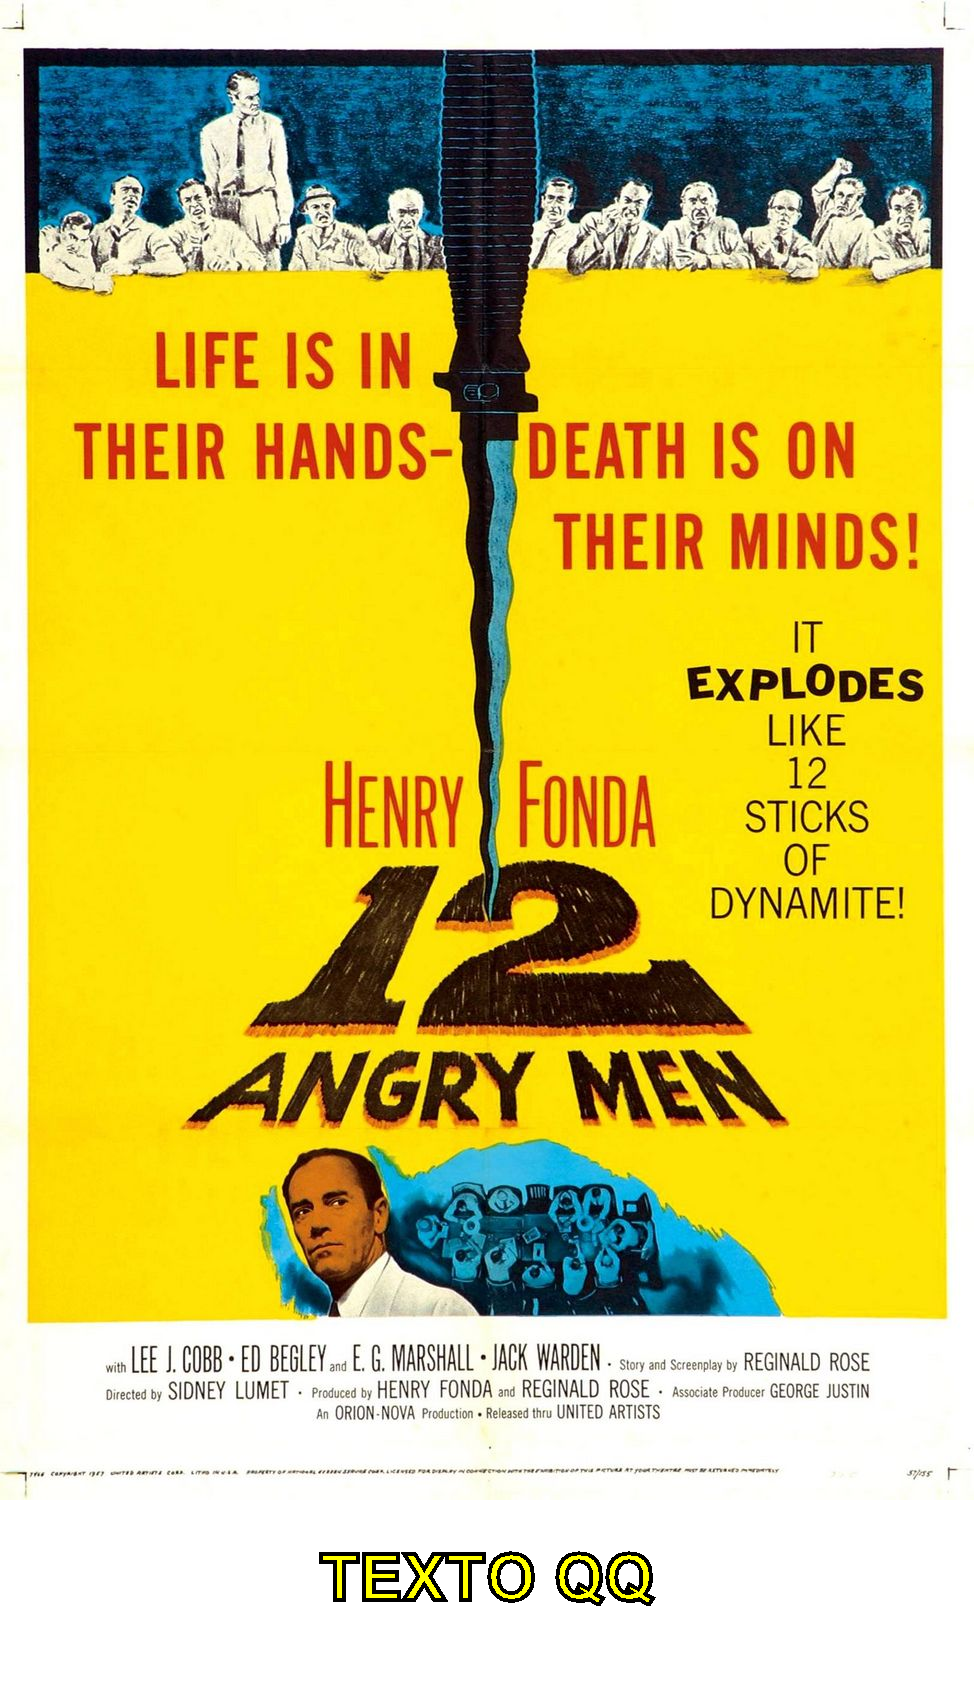
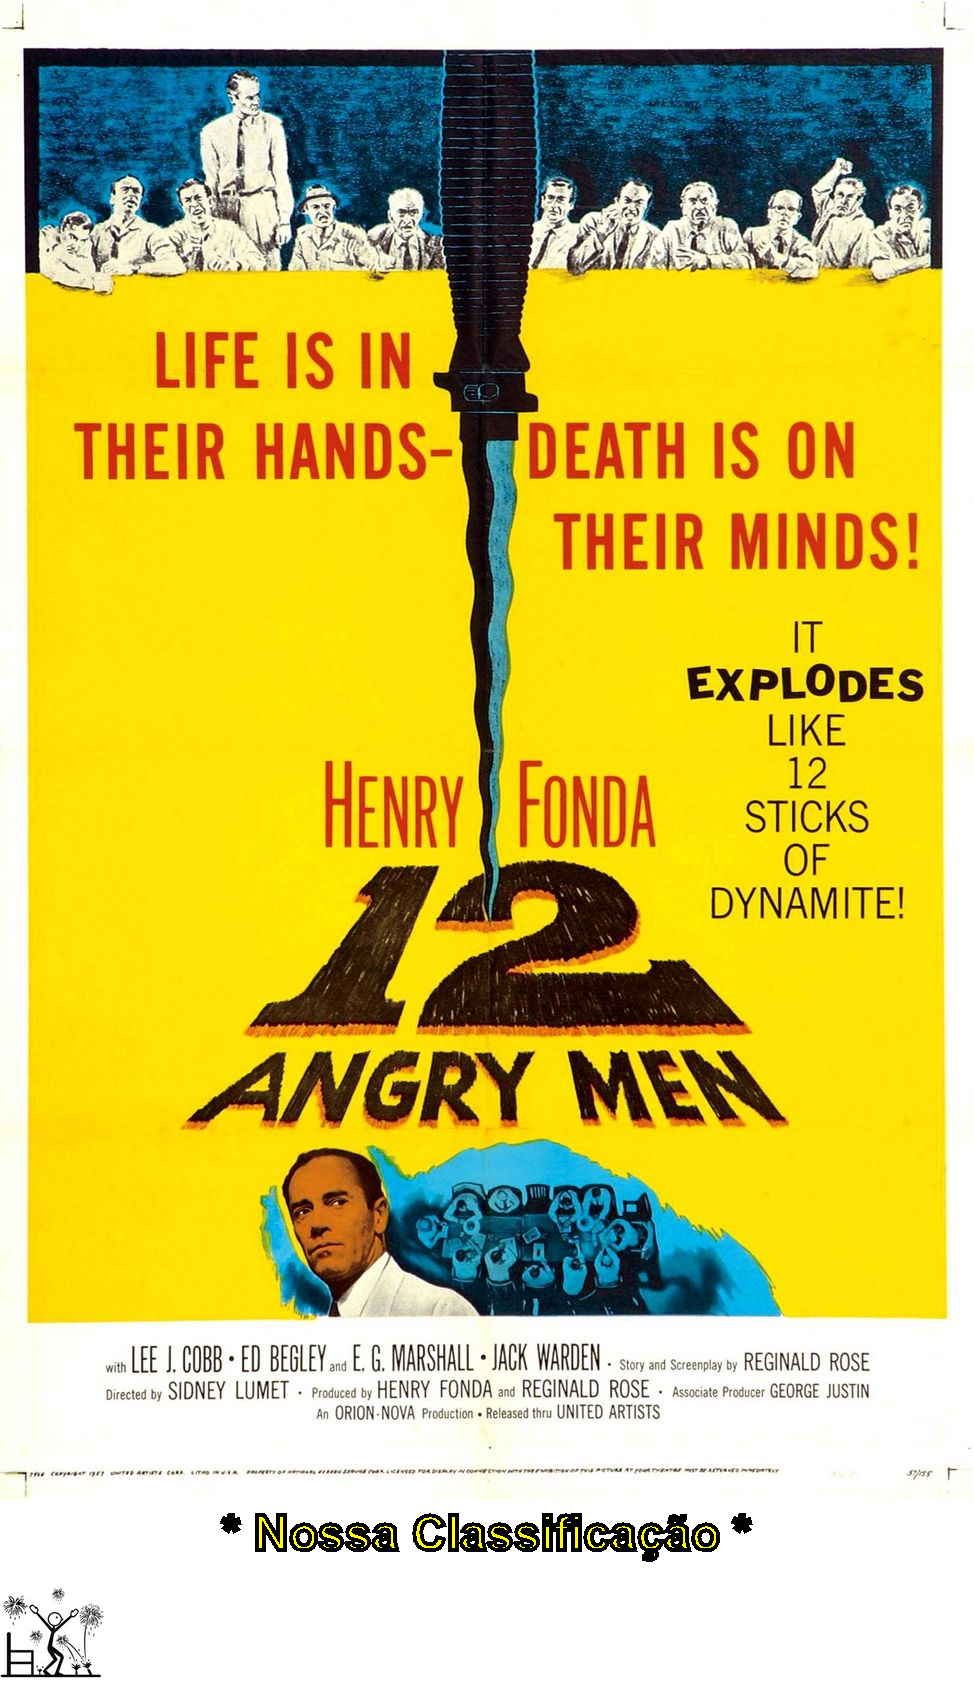
update stickers factory

Changed region(s): [[0.2156, 0.8729, 0.77, 0.9665], [0.0, 0.9353, 0.1232, 0.9976]]

diff --git a/alura-stickers/src/FactoryStickers.java b/alura-stickers/src/FactoryStickers.java
@@ -6,13 +6,14 @@ import java.awt.geom.AffineTransform;
 import java.awt.geom.Rectangle2D;
 import java.awt.image.BufferedImage;
 import java.io.File;
+import java.io.FileInputStream;
 import java.io.InputStream;
 
 public class FactoryStickers {
 
-    public void createSticker(InputStream inputStream, String nomeArquivo) throws Exception {
+    public void createSticker(InputStream inputStream, String nomeArquivo, double nota) throws Exception {
 
-        //leitura  da imagem
+        //leitura  da imagem do poster
         //InputStream inputStream = new FileInputStream(new File("img/filme_01.jpg"));
         //InputStream inputStream = new URL("https://raw.githubusercontent.com/alura-cursos/imersao-java-2-api/main/TopMovies_1.jpg").openStream();
         BufferedImage imgOriginal = ImageIO.read(inputStream);
@@ -23,22 +24,40 @@ public class FactoryStickers {
         int novaAltura = altura + 200;
         BufferedImage imgModificada = new BufferedImage(largura, novaAltura, BufferedImage.TRANSLUCENT);
 
-        //copiar a imagem original para a nova imagem (em memória)
+        //classificação do filme
+        String imgNota = "";
+        if(nota > 9.0) {
+            imgNota = "img/boneco-nota-10.jpg";
+        }else if ((nota <= 9.0) && (nota > 8.5)) {
+            imgNota = "img/boneco-nota-9.jpg";
+        }else {
+            imgNota = "img/boneco-nota-8.jpg";
+        }
+
+        //configurar imagem de classificação
+        InputStream inputClassificacao = new FileInputStream(new File(imgNota));
+        BufferedImage imgOriginalNota = ImageIO.read(inputClassificacao);
+        int larguraNota = imgOriginalNota.getWidth();
+        int alturaNota = imgOriginalNota.getHeight();
+        BufferedImage imgModificadaNota = new BufferedImage(larguraNota, alturaNota, BufferedImage.TRANSLUCENT);
+
+        //copiar a imagens originais (poster e nota) para a nova imagem (em memória)
         Graphics2D graphics = (Graphics2D) imgModificada.getGraphics();
         graphics.drawImage(imgOriginal, 0, 0, null);
+        graphics.drawImage(imgOriginalNota,0, novaAltura - 120, null);
 
         //configurar a fonte
-        var fonte = new Font("Comic Sans",Font.BOLD,64);
+        var fonte = new Font("Comic Sans",Font.BOLD,48);
         graphics.setColor(Color.yellow);
         graphics.setFont(fonte);
 
         //escrever uma frase na nova imagem
-        String texto = "TEXTO QQ";
+        String texto = "* Nossa Classificação *";
         FontMetrics fontMetrics = graphics.getFontMetrics();
         Rectangle2D rectangleText = fontMetrics.getStringBounds(texto, graphics);
         int larguraTexto = (int) rectangleText.getWidth();
         int positionX = (largura - larguraTexto)/2;
-        int positionY = novaAltura - 100;
+        int positionY = novaAltura - 150;
         graphics.drawString(texto, positionX, positionY);
 
         //criar borda no texto
@@ -59,6 +78,7 @@ public class FactoryStickers {
 
         //salvar a nova imagem em um novo arquivo
         ImageIO.write(imgModificada, "png", new File(nomeArquivo));
+        //ImageIO.write(imgModificadaNota,"png",new File(nomeArquivo));
 
     }
 

diff --git a/alura-stickers/src/App.java b/alura-stickers/src/App.java
@@ -15,7 +15,7 @@ public class App {
         //Realizar uma conexão HTTP e pegar os TOP 250 melhores filmes
 
         //String imdbKey = System.getenv("IMDB_KEY");//capturar uma variável de ambiente
-
+        //String url = "https://raw.githubusercontent.com/alura-cursos/imersao-java-2-api/main/MostPopularMovies.json";
         String url = "https://raw.githubusercontent.com/alura-cursos/imersao-java-2-api/main/TopMovies.json";
         URI uri = URI.create(url);
         var client = HttpClient.newHttpClient();
@@ -39,9 +39,10 @@ public class App {
 
             String nomeArquivo = filme.get("title") + ".png";
             String urlImagem = filme.get("image");
+            double notaFilme = Double.parseDouble(filme.get("imDbRating"));
             InputStream inputStream = new URL(urlImagem).openStream();
 
-            factory.createSticker(inputStream, pastaSaida + nomeArquivo);
+            factory.createSticker(inputStream, pastaSaida + nomeArquivo, notaFilme);
 
             System.out.println("\u001b[1m" + "TÍTULO: " + "\u001b[36m" + "\u001b[3m" + filme.get("title") + "\u001b[m");
             /*System.out.println("\u001b[1m" + "CARTAZ: " + "\u001b[m" + filme.get("image"));
